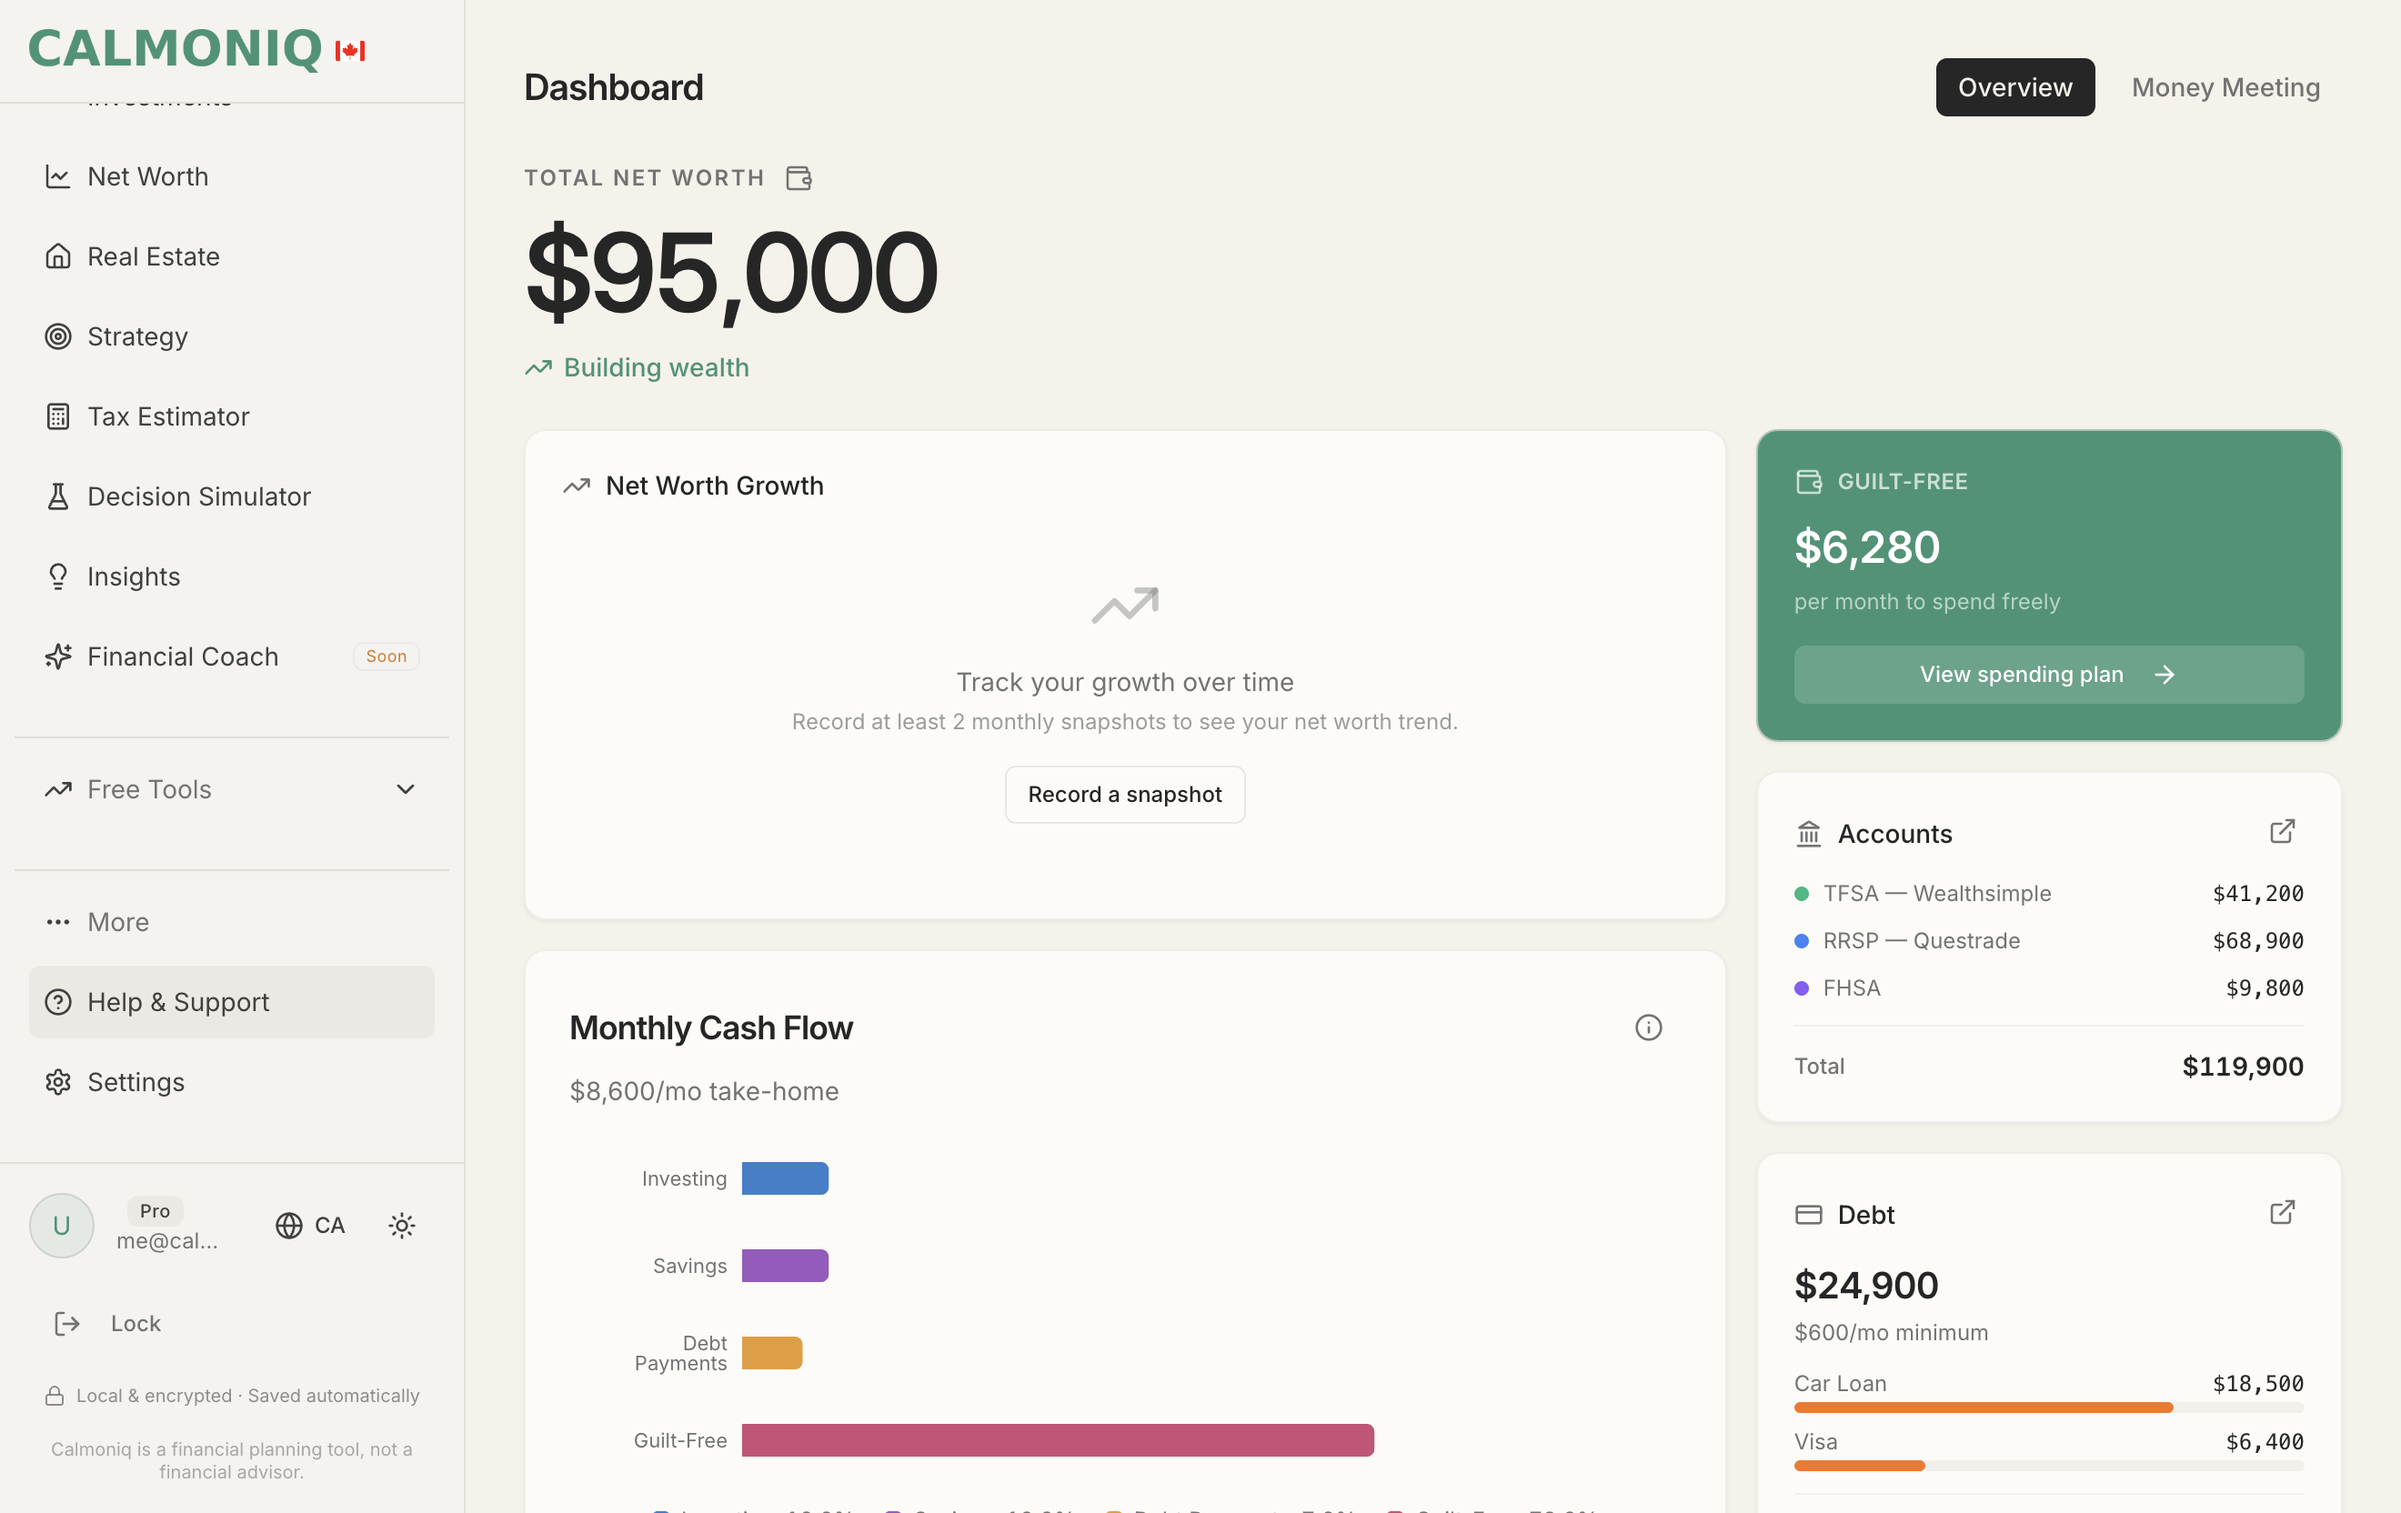
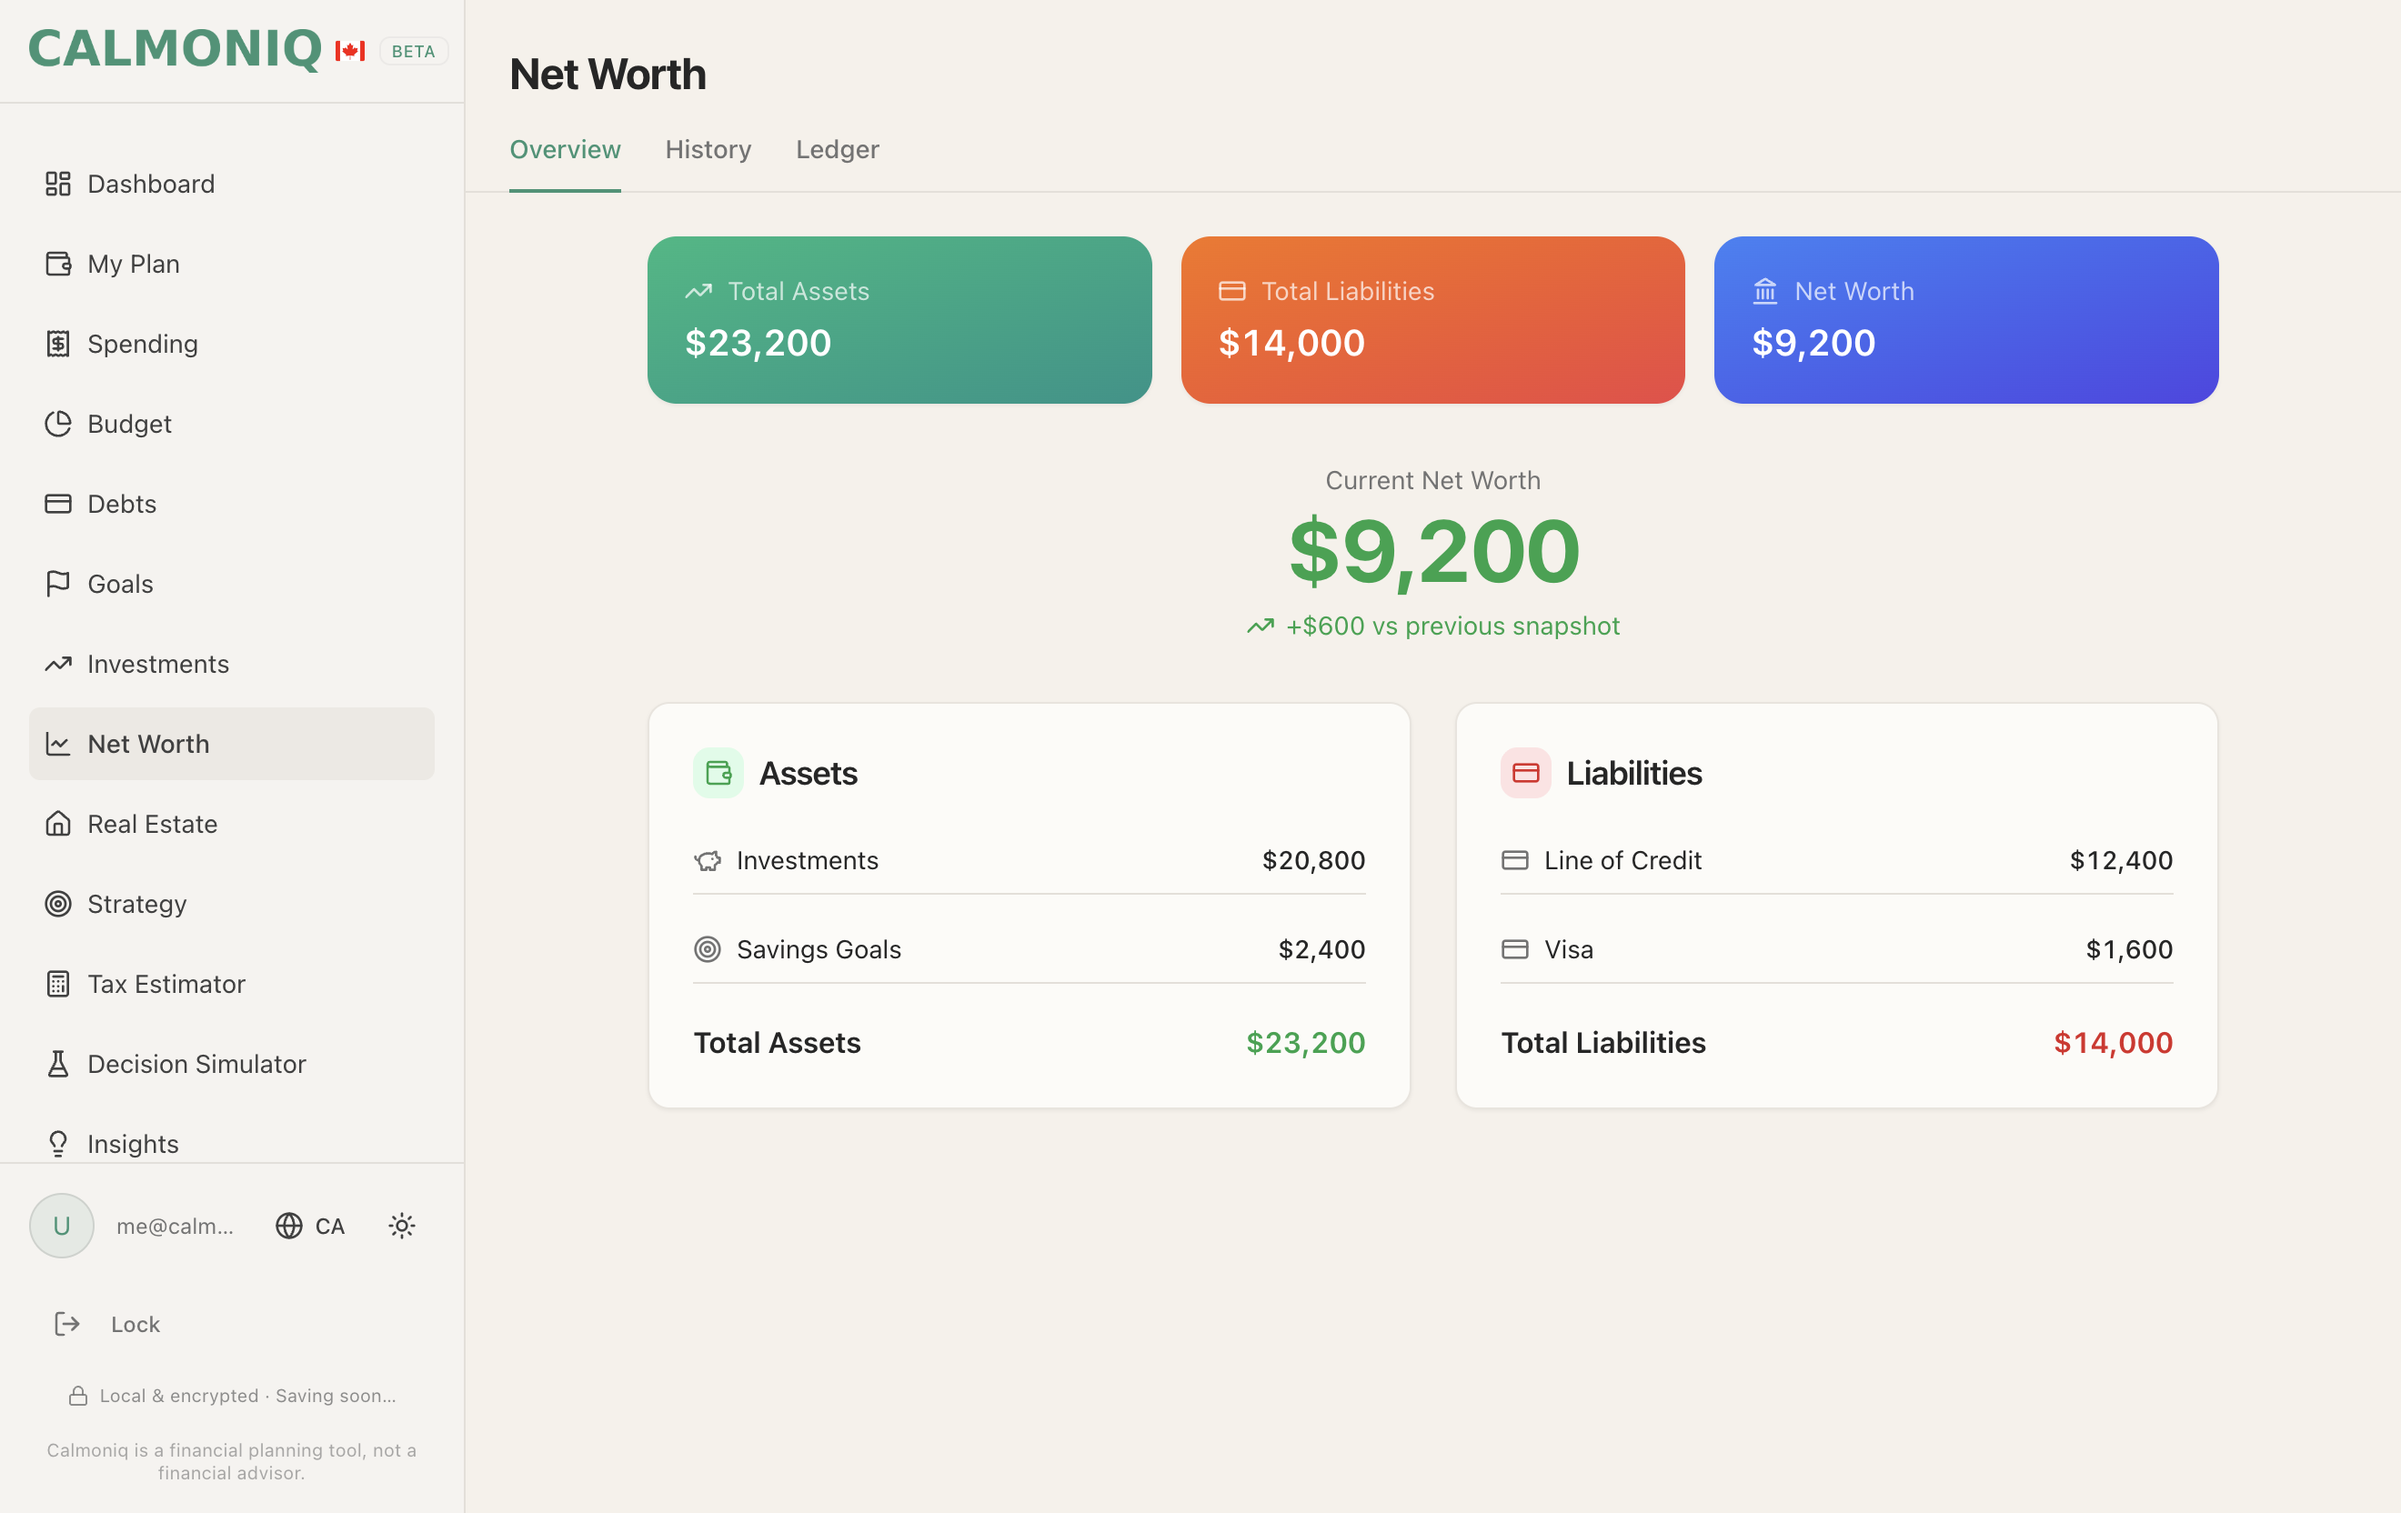
Branded social share card (og-card.png); refresh hero to current net-worth screenshot

diff --git a/index.html b/index.html
@@ -18,14 +18,14 @@
 <meta property="og:title" content="Calmoniq: your money, on your computer" />
 <meta property="og:description" content="A free, privacy-first Canadian personal-finance & real-estate app for Mac and Windows. Your data never leaves your device." />
 <meta property="og:url" content="https://calmoniq.com/" />
-<meta property="og:image" content="https://calmoniq.com/assets/1-dashboard.png" />
-<meta property="og:image:alt" content="Calmoniq dashboard showing net worth, accounts, debt and cash flow" />
+<meta property="og:image" content="https://calmoniq.com/assets/og-card.png" />
+<meta property="og:image:alt" content="Calmoniq: a free, private Canadian money app for Mac and Windows" />
 <meta property="og:locale" content="en_CA" />
 
 <meta name="twitter:card" content="summary_large_image" />
 <meta name="twitter:title" content="Calmoniq: Canadian personal finance, on your computer" />
 <meta name="twitter:description" content="Budget, net worth, TFSA/RRSP/FHSA, and rental real-estate analysis. Free, runs offline, data stays on your device." />
-<meta name="twitter:image" content="https://calmoniq.com/assets/1-dashboard.png" />
+<meta name="twitter:image" content="https://calmoniq.com/assets/og-card.png" />
 
 <script type="application/ld+json">
 {
@@ -36,7 +36,7 @@
   "operatingSystem": "macOS, Windows",
   "description": "Privacy-first Canadian personal-finance and real-estate planning app. Budget, net worth, TFSA/RRSP/FHSA tracking, and rental property analysis. Runs entirely on your computer.",
   "url": "https://calmoniq.com/",
-  "image": "https://calmoniq.com/assets/1-dashboard.png",
+  "image": "https://calmoniq.com/assets/og-card.png",
   "offers": {
     "@type": "Offer",
     "price": "0.00",

diff --git a/README.md b/README.md
@@ -1,0 +1,34 @@
+# Calmoniq marketing site
+
+Static marketing site for **calmoniq.com**, positioning the desktop app
+(replaces the SaaS landing page). Plain HTML/CSS/JS — no build step.
+
+## Files
+- `index.html` — the page
+- `styles.css` — styling (brand green, responsive)
+- `app.js` — OS-aware download button + CASL-compliant newsletter handling
+- `assets/` — app icon + screenshots
+- `serve.cjs` — local preview only (`node website/serve.cjs` → http://127.0.0.1:4178); not needed in production
+
+## Deploy
+Drop the `website/` folder on any static host:
+- **Netlify / Vercel / Cloudflare Pages:** point the project at this folder, no build command, publish directory = `website`.
+- **GitHub Pages:** push `website/` contents to a `gh-pages` branch or `/docs`.
+
+Then point the **calmoniq.com** DNS at the host. Do this only when you're ready
+to switch the domain away from the Replit SaaS.
+
+## Before launch — two plug-ins
+1. **Newsletter (CASL-compliant):** in `index.html` replace `action="NEWSLETTER_ENDPOINT"`
+   with your provider's form action (Buttondown / MailerLite / Formspree). The consent
+   checkbox is unchecked + required as Canadian anti-spam law requires. Every email you
+   send must include your identity and an unsubscribe link. Until the endpoint is set,
+   the form falls back to a mailto so no signup is lost.
+2. **Checkout link:** the Buy button points to
+   `https://calmoniq.lemonsqueezy.com/checkout/buy/1783769` — confirm against the
+   product's Share link in Lemon Squeezy.
+
+## Notes
+- Download buttons link to the public releases repo's `latest` release.
+- No analytics/tracking — consistent with the app's privacy-first promise. If you add
+  analytics later, use a privacy-friendly tool (Plausible/Fathom) and disclose it.
